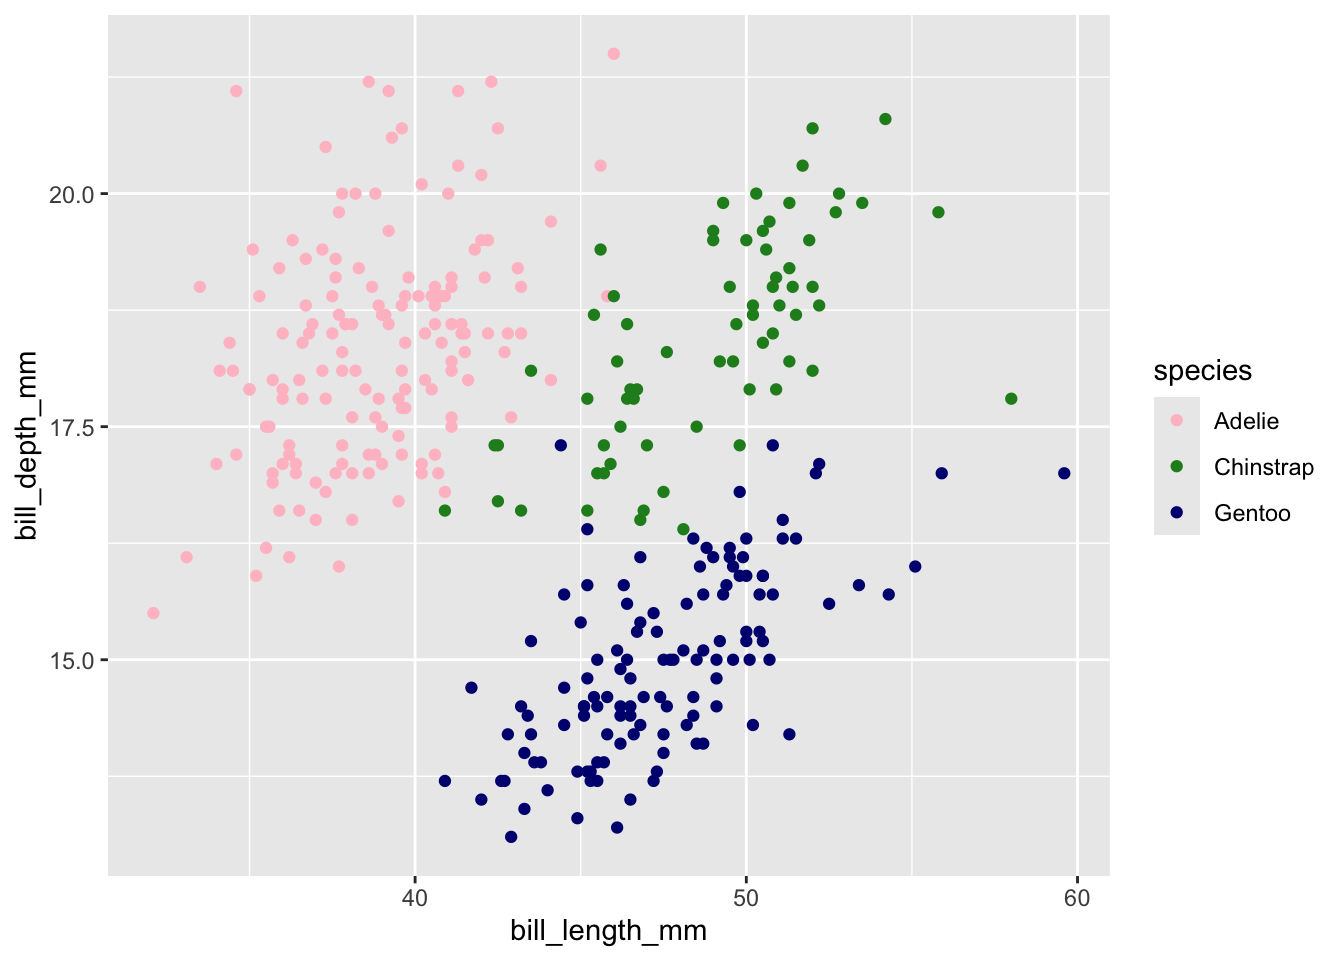
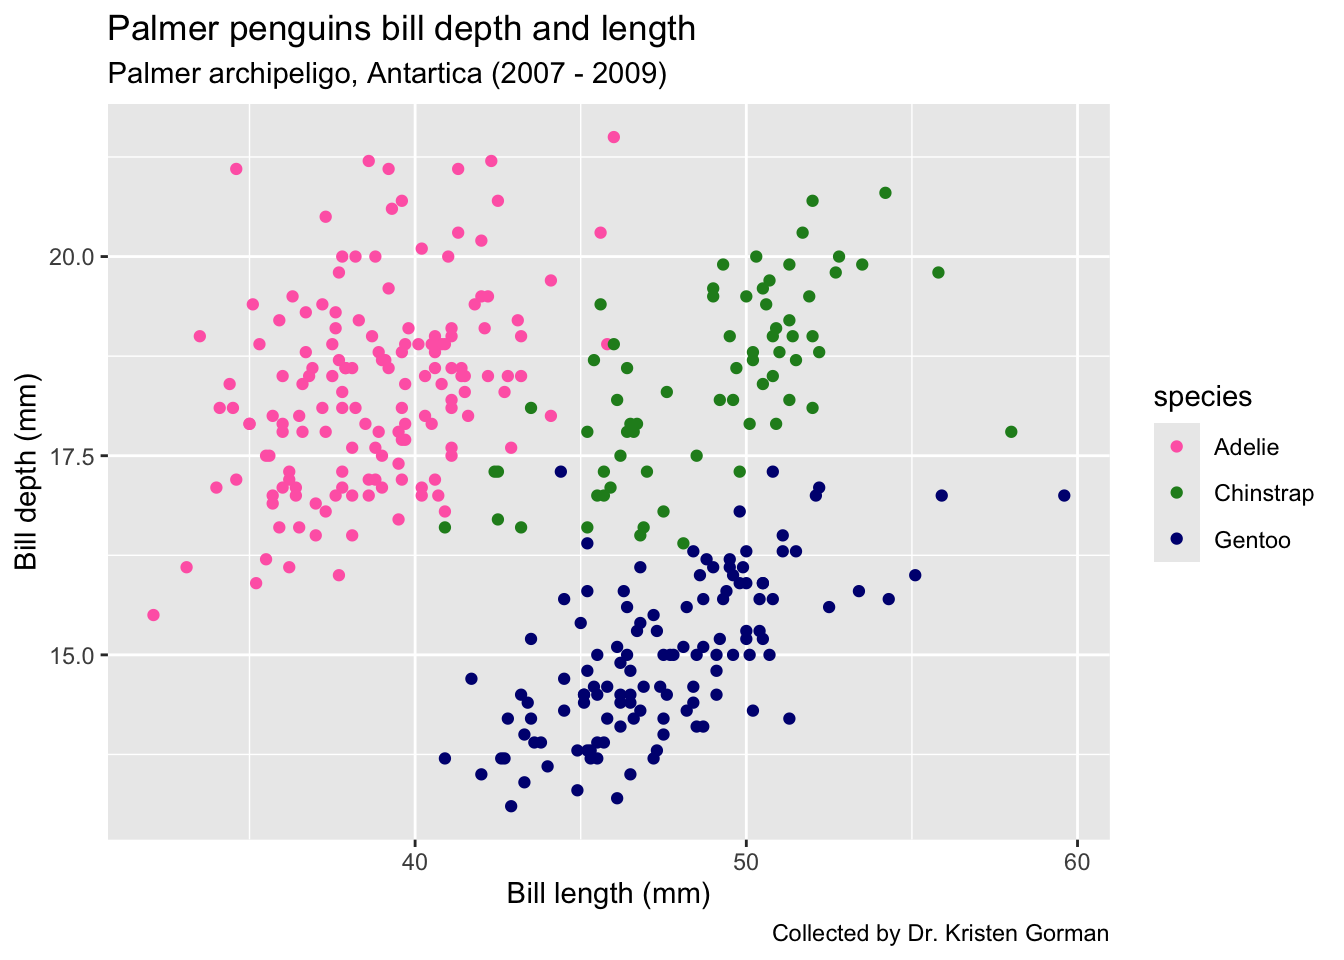
small changes

diff --git a/eds212_day2_activities.html b/eds212_day2_activities.html
@@ -144,7 +144,12 @@ Attaching package: 'palmerpenguins'</code></pre>
 <span id="cb8-3"><a href="#cb8-3" aria-hidden="true" tabindex="-1"></a></span>
 <span id="cb8-4"><a href="#cb8-4" aria-hidden="true" tabindex="-1"></a><span class="fu">ggplot</span>( <span class="at">data =</span> penguins, <span class="fu">aes</span>(<span class="at">x =</span> bill_length_mm, <span class="at">y =</span> bill_depth_mm)) <span class="sc">+</span></span>
 <span id="cb8-5"><a href="#cb8-5" aria-hidden="true" tabindex="-1"></a>  <span class="fu">geom_point</span>(<span class="fu">aes</span>(<span class="at">color =</span> species)) <span class="sc">+</span></span>
-<span id="cb8-6"><a href="#cb8-6" aria-hidden="true" tabindex="-1"></a>  <span class="fu">scale_color_manual</span>(<span class="at">values =</span> <span class="fu">c</span>(<span class="st">"pink"</span>, <span class="st">"forestgreen"</span>, <span class="st">"navy"</span>))</span></code><button title="Copy to Clipboard" class="code-copy-button"><i class="bi"></i></button></pre></div>
+<span id="cb8-6"><a href="#cb8-6" aria-hidden="true" tabindex="-1"></a>  <span class="fu">scale_color_manual</span>(<span class="at">values =</span> <span class="fu">c</span>(<span class="st">"hotpink"</span>, <span class="st">"forestgreen"</span>, <span class="st">"navy"</span>)) <span class="sc">+</span></span>
+<span id="cb8-7"><a href="#cb8-7" aria-hidden="true" tabindex="-1"></a>  <span class="fu">labs</span>(<span class="at">x =</span> <span class="st">"Bill length (mm)"</span>,</span>
+<span id="cb8-8"><a href="#cb8-8" aria-hidden="true" tabindex="-1"></a>       <span class="at">y =</span> <span class="st">"Bill depth (mm)"</span>,</span>
+<span id="cb8-9"><a href="#cb8-9" aria-hidden="true" tabindex="-1"></a>       <span class="at">title =</span> <span class="st">"Palmer penguins bill depth and length"</span>,</span>
+<span id="cb8-10"><a href="#cb8-10" aria-hidden="true" tabindex="-1"></a>       <span class="at">subtitle =</span> <span class="st">"Palmer archipeligo, Antartica (2007 - 2009)"</span>,</span>
+<span id="cb8-11"><a href="#cb8-11" aria-hidden="true" tabindex="-1"></a>       <span class="at">caption =</span> <span class="st">"Collected by Dr. Kristen Gorman"</span>)</span></code><button title="Copy to Clipboard" class="code-copy-button"><i class="bi"></i></button></pre></div>
 <div class="cell-output cell-output-stderr">
 <pre><code>Warning: Removed 2 rows containing missing values or values outside the scale range
 (`geom_point()`).</code></pre>
@@ -156,43 +161,19 @@ Attaching package: 'palmerpenguins'</code></pre>
 </figure>
 </div>
 </div>
-<div class="sourceCode cell-code" id="cb10"><pre class="sourceCode r code-with-copy"><code class="sourceCode r"><span id="cb10-1"><a href="#cb10-1" aria-hidden="true" tabindex="-1"></a>  <span class="fu">labs</span>(<span class="at">x =</span> <span class="st">"Bill length (mm)"</span>,</span>
-<span id="cb10-2"><a href="#cb10-2" aria-hidden="true" tabindex="-1"></a>       <span class="at">y =</span> <span class="st">"Bill depth (mm)"</span>,</span>
-<span id="cb10-3"><a href="#cb10-3" aria-hidden="true" tabindex="-1"></a>       <span class="at">title =</span> <span class="st">"Palmer penguins bill depth and length"</span>,</span>
-<span id="cb10-4"><a href="#cb10-4" aria-hidden="true" tabindex="-1"></a>       <span class="at">subtitle =</span> <span class="st">"Palmer archipeligo, Antartica (2007 - 2009)"</span>,</span>
-<span id="cb10-5"><a href="#cb10-5" aria-hidden="true" tabindex="-1"></a>       <span class="at">caption =</span> <span class="st">"Collected by Dr. Kristen Gorman"</span>)</span></code><button title="Copy to Clipboard" class="code-copy-button"><i class="bi"></i></button></pre></div>
-<div class="cell-output cell-output-stdout">
-<pre><code>$x
-[1] "Bill length (mm)"
-
-$y
-[1] "Bill depth (mm)"
-
-$title
-[1] "Palmer penguins bill depth and length"
-
-$subtitle
-[1] "Palmer archipeligo, Antartica (2007 - 2009)"
-
-$caption
-[1] "Collected by Dr. Kristen Gorman"
-
-attr(,"class")
-[1] "labels"</code></pre>
-</div>
 </div>
 <div class="cell">
-<div class="sourceCode cell-code" id="cb12"><pre class="sourceCode r code-with-copy"><code class="sourceCode r"><span id="cb12-1"><a href="#cb12-1" aria-hidden="true" tabindex="-1"></a><span class="fu">library</span>(ggplot2)</span>
-<span id="cb12-2"><a href="#cb12-2" aria-hidden="true" tabindex="-1"></a><span class="fu">library</span>(tidyr)</span>
-<span id="cb12-3"><a href="#cb12-3" aria-hidden="true" tabindex="-1"></a></span>
-<span id="cb12-4"><a href="#cb12-4" aria-hidden="true" tabindex="-1"></a><span class="fu">ggplot</span>( <span class="at">data =</span> penguins, <span class="fu">aes</span>(<span class="at">x =</span> species, <span class="at">y =</span> flipper_length_mm)) <span class="sc">+</span></span>
-<span id="cb12-5"><a href="#cb12-5" aria-hidden="true" tabindex="-1"></a>  <span class="fu">geom_jitter</span>(<span class="fu">aes</span>(<span class="at">color =</span> species)) <span class="sc">+</span></span>
-<span id="cb12-6"><a href="#cb12-6" aria-hidden="true" tabindex="-1"></a>  <span class="fu">scale_color_manual</span>(<span class="at">values =</span> <span class="fu">c</span>(<span class="st">"pink"</span>, <span class="st">"forestgreen"</span>, <span class="st">"navy"</span>)) <span class="sc">+</span></span>
-<span id="cb12-7"><a href="#cb12-7" aria-hidden="true" tabindex="-1"></a>  <span class="fu">labs</span>(<span class="at">x =</span> <span class="st">"Species"</span>,</span>
-<span id="cb12-8"><a href="#cb12-8" aria-hidden="true" tabindex="-1"></a>       <span class="at">y =</span> <span class="st">"Flipper length (mm)"</span>,</span>
-<span id="cb12-9"><a href="#cb12-9" aria-hidden="true" tabindex="-1"></a>       <span class="at">title =</span> <span class="st">"Palmer penguins flipper length"</span>,</span>
-<span id="cb12-10"><a href="#cb12-10" aria-hidden="true" tabindex="-1"></a>       <span class="at">subtitle =</span> <span class="st">"Palmer archipeligo, Antartica (2007 - 2009)"</span>,</span>
-<span id="cb12-11"><a href="#cb12-11" aria-hidden="true" tabindex="-1"></a>       <span class="at">caption =</span> <span class="st">"Collected by Dr. Kristen Gorman"</span>)</span></code><button title="Copy to Clipboard" class="code-copy-button"><i class="bi"></i></button></pre></div>
+<div class="sourceCode cell-code" id="cb10"><pre class="sourceCode r code-with-copy"><code class="sourceCode r"><span id="cb10-1"><a href="#cb10-1" aria-hidden="true" tabindex="-1"></a><span class="fu">library</span>(ggplot2)</span>
+<span id="cb10-2"><a href="#cb10-2" aria-hidden="true" tabindex="-1"></a><span class="fu">library</span>(tidyr)</span>
+<span id="cb10-3"><a href="#cb10-3" aria-hidden="true" tabindex="-1"></a></span>
+<span id="cb10-4"><a href="#cb10-4" aria-hidden="true" tabindex="-1"></a><span class="fu">ggplot</span>( <span class="at">data =</span> penguins, <span class="fu">aes</span>(<span class="at">x =</span> species, <span class="at">y =</span> flipper_length_mm)) <span class="sc">+</span></span>
+<span id="cb10-5"><a href="#cb10-5" aria-hidden="true" tabindex="-1"></a>  <span class="fu">geom_jitter</span>(<span class="fu">aes</span>(<span class="at">color =</span> species)) <span class="sc">+</span></span>
+<span id="cb10-6"><a href="#cb10-6" aria-hidden="true" tabindex="-1"></a>  <span class="fu">scale_color_manual</span>(<span class="at">values =</span> <span class="fu">c</span>(<span class="st">"hotpink"</span>, <span class="st">"forestgreen"</span>, <span class="st">"navy"</span>)) <span class="sc">+</span></span>
+<span id="cb10-7"><a href="#cb10-7" aria-hidden="true" tabindex="-1"></a>  <span class="fu">labs</span>(<span class="at">x =</span> <span class="st">"Species"</span>,</span>
+<span id="cb10-8"><a href="#cb10-8" aria-hidden="true" tabindex="-1"></a>       <span class="at">y =</span> <span class="st">"Flipper length (mm)"</span>,</span>
+<span id="cb10-9"><a href="#cb10-9" aria-hidden="true" tabindex="-1"></a>       <span class="at">title =</span> <span class="st">"Palmer penguins flipper length"</span>,</span>
+<span id="cb10-10"><a href="#cb10-10" aria-hidden="true" tabindex="-1"></a>       <span class="at">subtitle =</span> <span class="st">"Palmer archipeligo, Antartica (2007 - 2009)"</span>,</span>
+<span id="cb10-11"><a href="#cb10-11" aria-hidden="true" tabindex="-1"></a>       <span class="at">caption =</span> <span class="st">"Collected by Dr. Kristen Gorman"</span>)</span></code><button title="Copy to Clipboard" class="code-copy-button"><i class="bi"></i></button></pre></div>
 <div class="cell-output cell-output-stderr">
 <pre><code>Warning: Removed 2 rows containing missing values or values outside the scale range
 (`geom_point()`).</code></pre>
